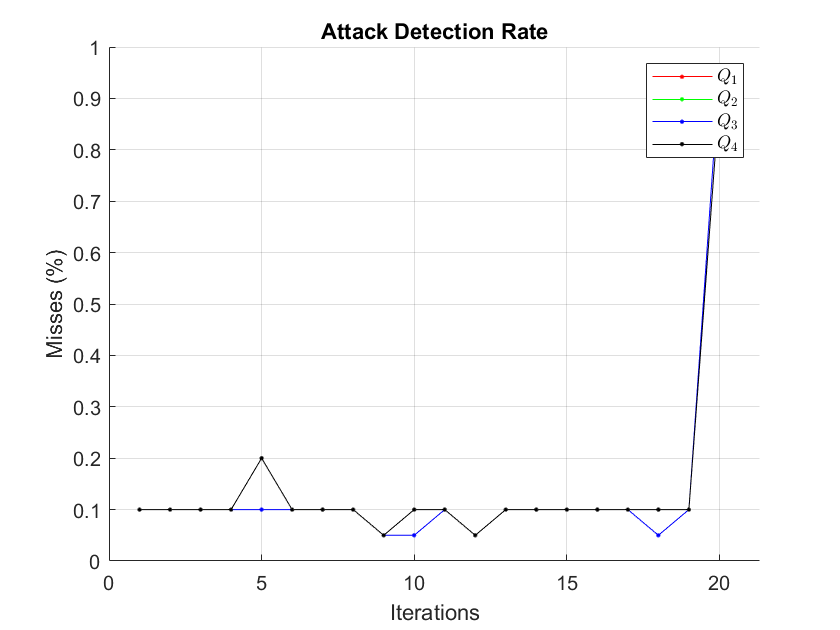
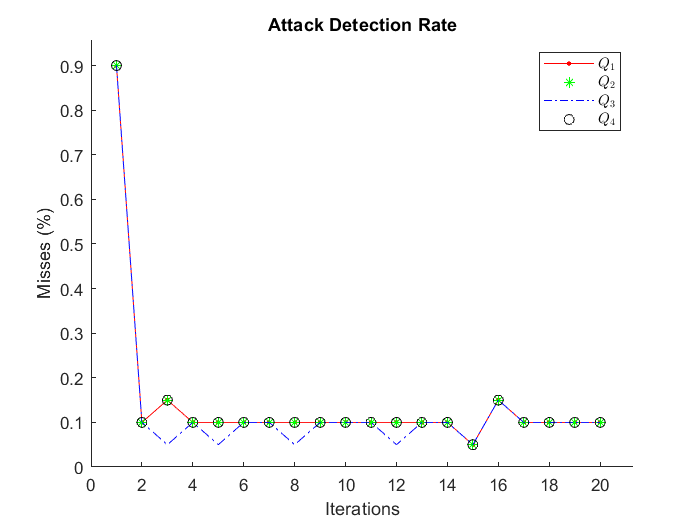
re-ran task5

diff --git a/project1/project1_t5.m b/project1/project1_t5.m
@@ -143,9 +143,9 @@ title("Attack Detection Rate");
 axis padded
 hold on;
 plot(iterations, misses(:, 1)'/20, 'r.-');
-plot(iterations, misses(:, 2)'/20, 'g.-');
-plot(iterations, misses(:, 3)'/20, 'b.-');
-plot(iterations, misses(:, 4)'/20, 'k.-');
+plot(iterations, misses(:, 2)'/20, 'g*');
+plot(iterations, misses(:, 3)'/20, 'b-.');
+plot(iterations, misses(:, 4)'/20, 'ko');
 grid, legend('$Q_1$','$Q_2$', '$Q_3$', '$Q_4$', 'Interpreter','latex');
 hold off;
 
